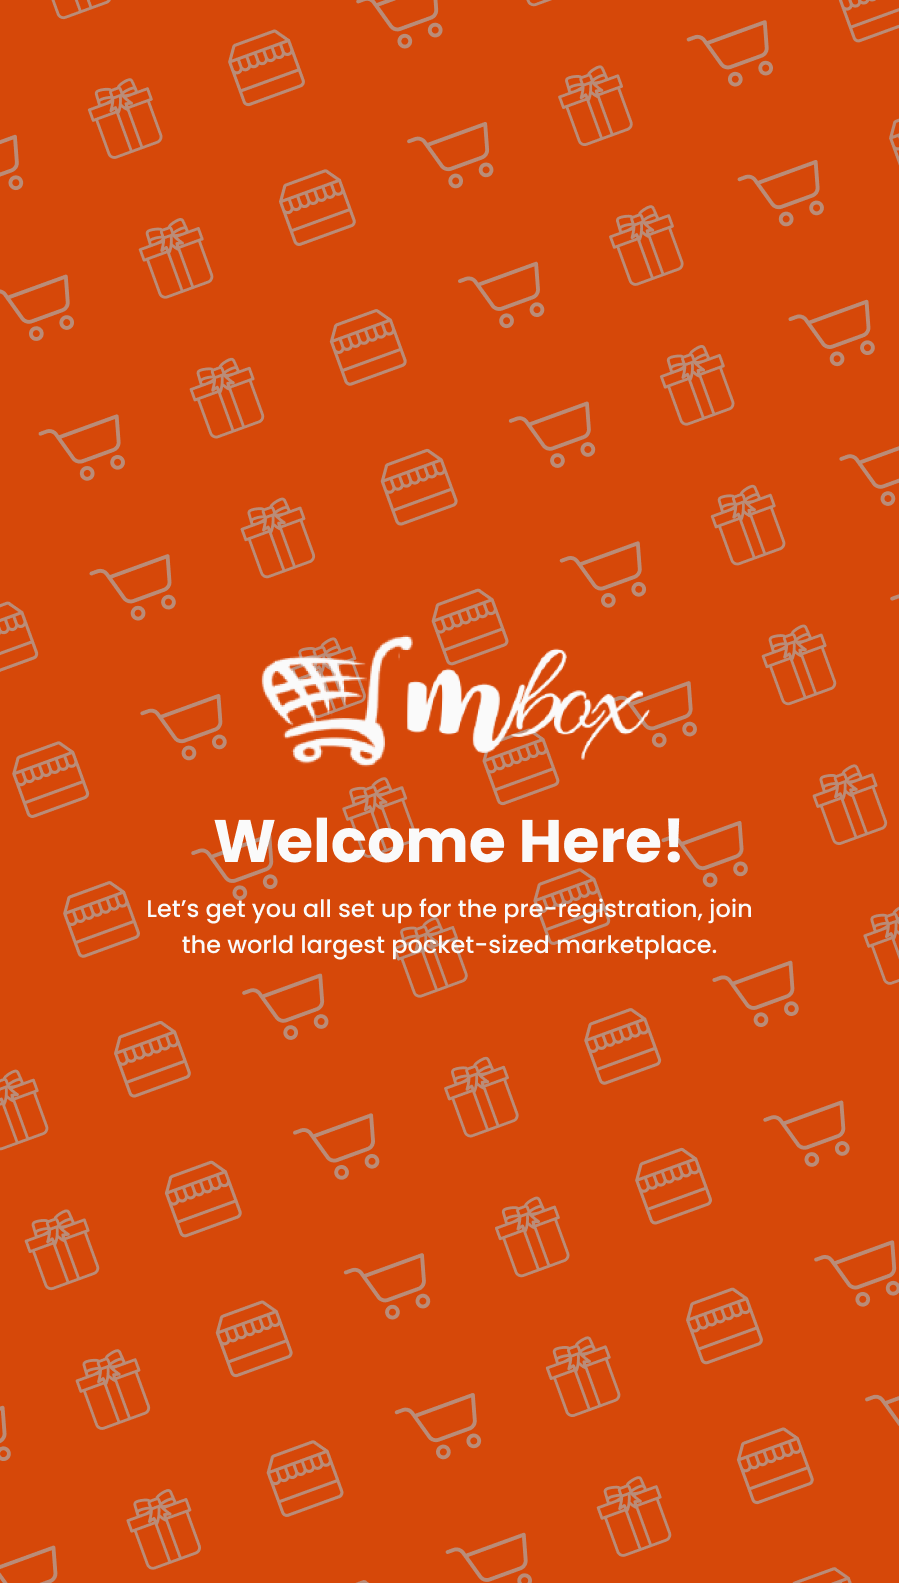
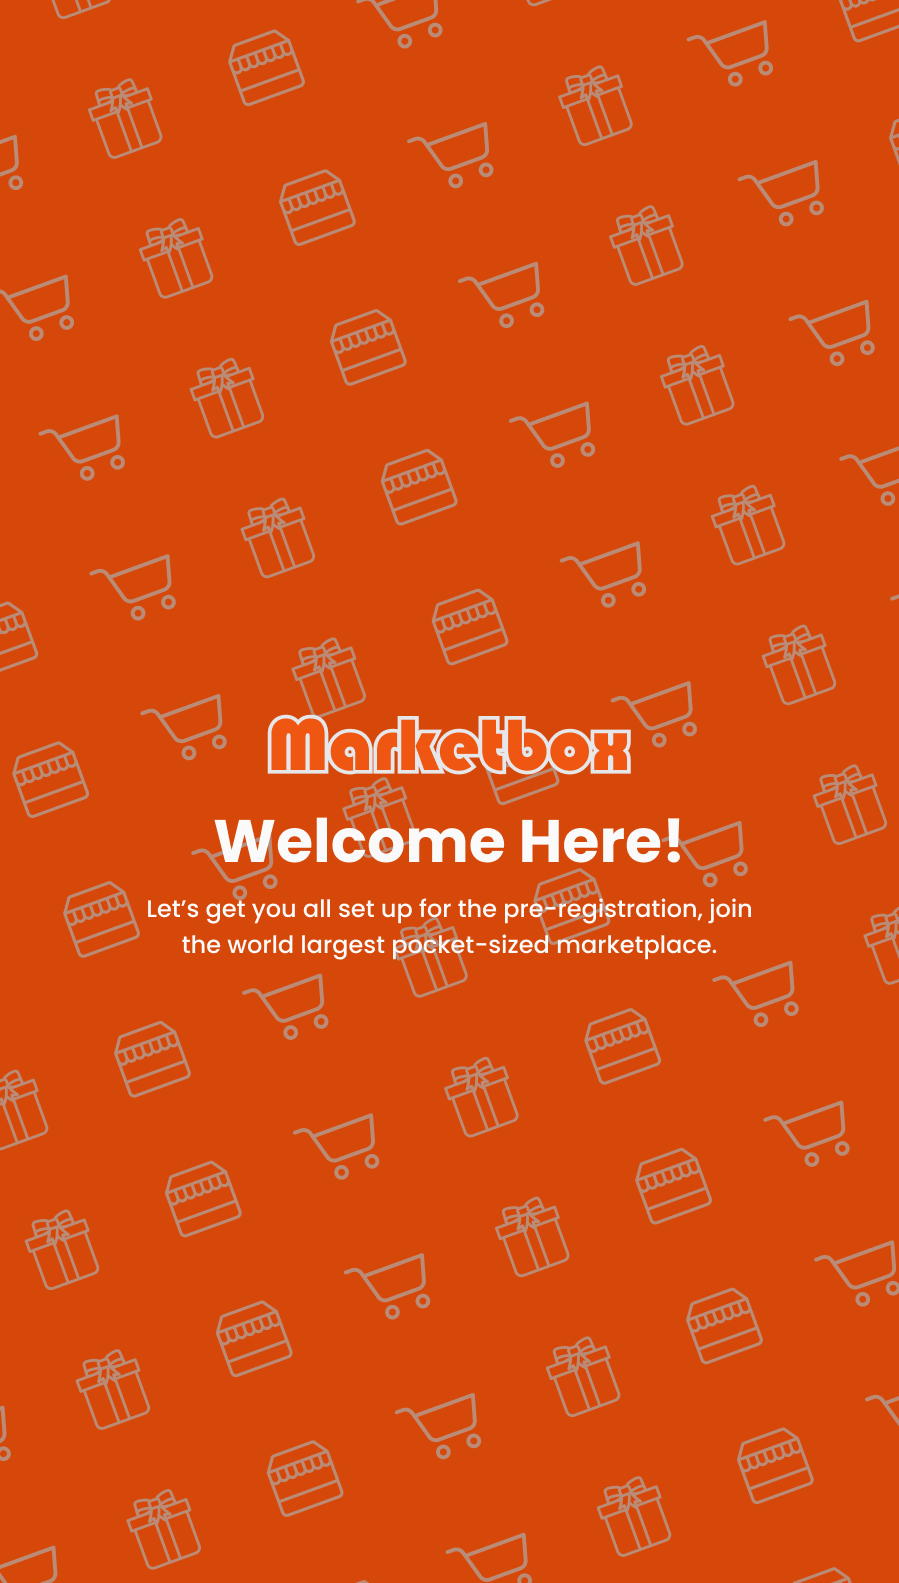
preregister

Changed region(s): [[0.2803, 0.4024, 0.7164, 0.4953]]

diff --git a/pages/auth/register/index.jsx b/pages/auth/register/index.jsx
@@ -55,18 +55,9 @@ const Register = () => {
 
   return (
     <div className="grid grid-cols-1 lg:grid-cols-[45%_55%]">
-      <div className="hidden w-full h-screen max-h-screen lg:flex relative">
-        {/* bg-[#EF5612] */}
-        <img
-          // src="../../../public/images/authbg.png"
-          src="https://ucarecdn.com/a4cc7371-5eb0-453e-a38a-cc7831b320e7/registerbg.png"
-          // src="https://ucarecdn.com/8573206f-6b15-4017-bd67-214cb316e3fa/authpattern.png"
-          // height={1200}
-          className="absolute inset-0 h-full w-full object-cover"
-        />
-      </div>
+      <div className="hidden md:block bg-[url('../public/images/preregisterbg.png')] bg-center bg-no-repeat bg-cover h-full max-h-screen w-full"></div>
       {isLoading && <Spinner />}
-      <div className="bg-grayColor w-full px-4 lg:px-0 h-full lg:max-h-screen lg:overflow-y-scroll">
+      <div className="bg-grayColor w-full px-4 lg:px-8 h-full lg:max-h-screen lg:overflow-y-scroll">
         <div className="w-full max-w-screen-sm lg:max-w-screen-md mx-auto h-full">
           <div className="w-full h-full flex flex-col py-8">
             <div className="text-center">
